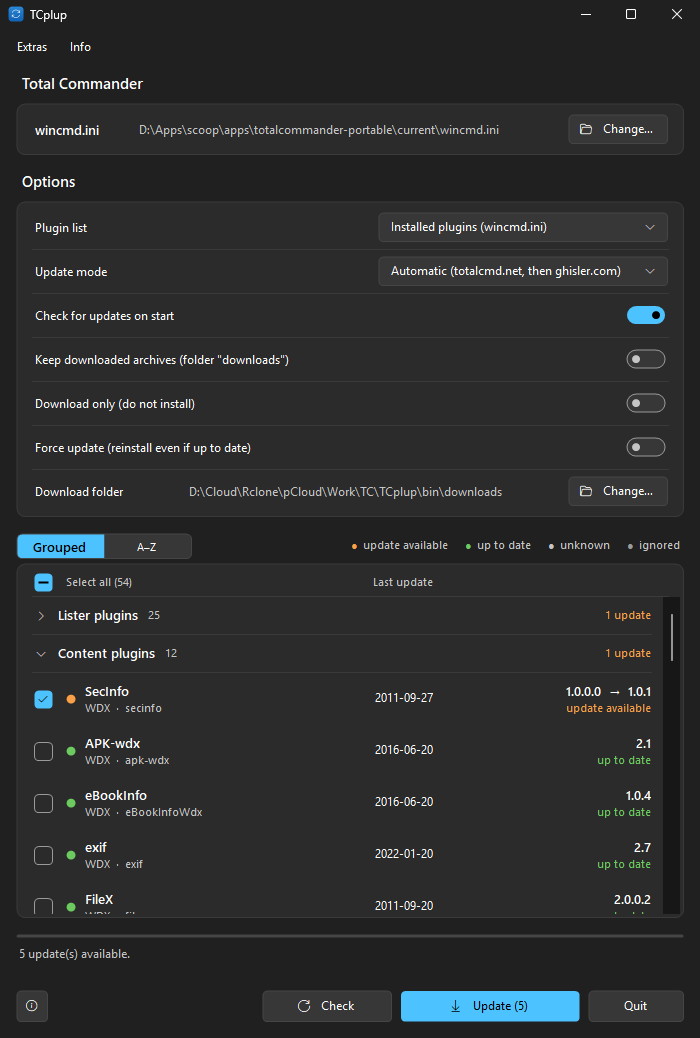
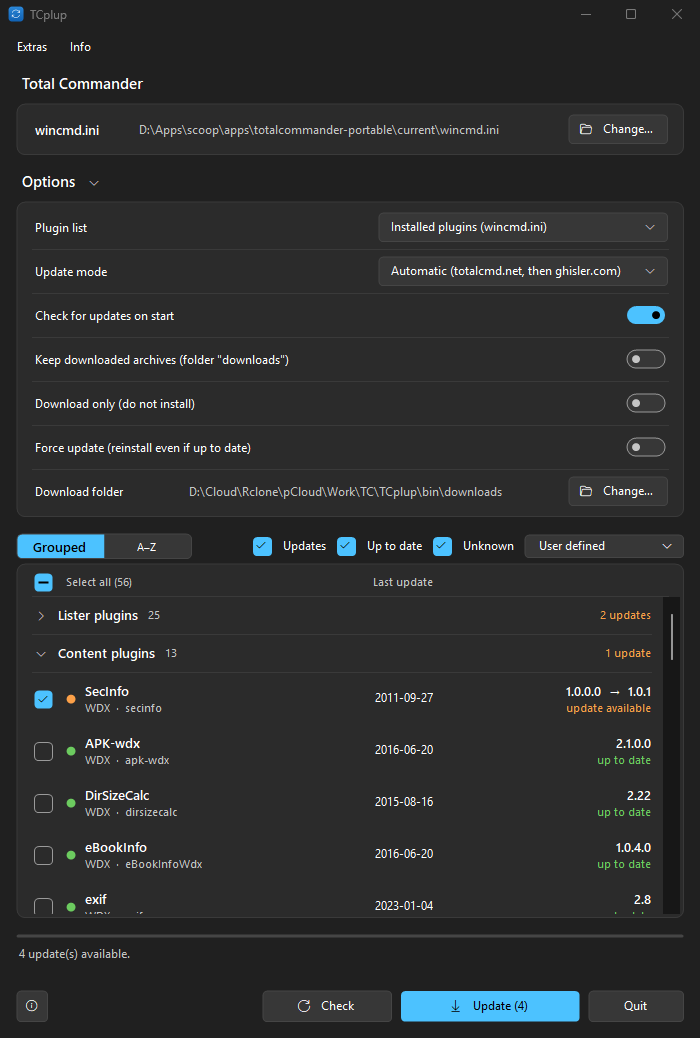
TCplup 1.7.0

diff --git a/README.de.md b/README.de.md
@@ -4,7 +4,7 @@
 
 Ein Updater für Plugins des [Total Commanders](https://www.ghisler.com). Er liest die Liste deiner Plugins, sucht auf [totalcmd.net](https://totalcmd.net), [ghisler.com](https://www.ghisler.com/plugins.htm) oder GitHub nach neueren Versionen und lädt sie herunter und installiert sie – mit einem Klick für alle.
 
-![TCplup mit der Plugin-Liste einer Total-Commander-Installation und fünf verfügbaren Updates](docs/screenshot.png)
+![TCplup mit der Plugin-Liste einer Total-Commander-Installation und vier verfügbaren Updates](docs/screenshot.png)
 
 ## Download
 
@@ -37,8 +37,8 @@ Ein Updater für Plugins des [Total Commanders](https://www.ghisler.com). Er lie
 | Element | Funktion |
 |---|---|
 | Liste **Plugins** | Jede Zeile zeigt in der Spalte **Letztes Update** das Datum der neuesten Plugin-Datei. Der Umschalter über der Liste zeigt die Plugins **Gruppiert** nach Typ – **Lister**-, **Content**-, **Packer**- und **Dateisystem**-Plugins – oder als eine nach **A–Z** sortierte Liste. Plugins mit Update stehen in beiden Ansichten oben. In der gruppierten Ansicht auf eine Gruppenzeile klicken (oder Links/Rechts bzw. Leertaste darauf), um sie zu- oder aufzuklappen; sie zeigt die Anzahl der Plugins und der Updates. **Orange** = Update verfügbar (standardmäßig angehakt), **grün** = aktuell, **grau** = unbekannt oder keine Quelle gefunden. Auf das Kästchen klicken (oder Leertaste), um ein Plugin an- oder abzuwählen. Mehrere Plugins wählst du mit Strg und Umschalt. |
-| Kontrollkästchen über der Liste | Wählt viele Plugins auf einmal an oder ab. Jeder Klick geht einen Schritt weiter: **Aktualisierungen auswählen**, dann **Alles auswählen**, dann **Auswahl aufheben**; das Kästchen zeigt, was gerade angehakt ist (leer, Strich bei einigen, Haken bei allen), und der Text daneben sagt, was der nächste Klick tut. Es wirkt auf die angezeigten Plugins, bei aktivem Legendenfilter also nur auf diese. |
-| **Legende** (über der Liste) | *Update verfügbar*, *aktuell*, *unbekannt* und *ignoriert* sind Filter: Klick zeigt nur diese Plugins, erneuter Klick wieder alle. *ignoriert* ist deine Ignore-Liste. |
+| Kontrollkästchen über der Liste | Wählt viele Plugins auf einmal an oder ab. Jeder Klick geht einen Schritt weiter: **Aktualisierungen auswählen**, dann **Alles auswählen**, dann **Auswahl aufheben**; das Kästchen zeigt, was gerade angehakt ist (leer, Strich bei einigen, Haken bei allen), und der Text daneben sagt, was der nächste Klick tut. Es wirkt auf die angezeigten Plugins, bei abgeschaltetem Filter also nur auf diese. |
+| **Filter** (neben dem Umschalter) | Kontrollkästchen *Updates*, *Aktuell* und *Unbekannt* sowie das Menü **Benutzerdefiniert** mit *Ignoriert*, *Übersprungen* und *Markiert* (deine eigenen Aktionen, siehe unten). Standardmäßig sind alle an; wer ein Häkchen entfernt, blendet diese Plugins aus. In der Liste tragen Plugins mit einer Aktion von dir einen farbigen Hinweis: *ignoriert*, *übersprungen*, *als aktualisiert markiert*. |
 | **Prüfen** | Sucht für alle Plugins erneut nach Updates. |
 | **Aktualisieren (n)** | Installiert die angehakten Plugins (bei eingeschaltetem *Nur herunterladen* heißt der Button **Herunterladen (n)** und speichert nur die Archive). Während des Updates wird *Beenden* zu **Abbrechen**. |
 | **Optionen** (Überschrift) | Ein Klick auf die Überschrift blendet den Optionsblock aus oder ein; das Fenster wird um dessen Höhe kleiner oder größer, und TCplup merkt sich den Zustand. |
@@ -51,9 +51,9 @@ Ein Updater für Plugins des [Total Commanders](https://www.ghisler.com). Er lie
 | **Download-Ordner** | Wohin behaltene und heruntergeladene Archive kommen. Standard: der Ordner `downloads` neben TCplup; mit *Ändern …* wählst du einen anderen. |
 | **ⓘ** (unten links) | Info-Fenster mit Version, Entwickler, Website und Programm-Updates. |
 
-Rechtsklick auf ein Plugin (oder die markierten Plugins): **Aktualisieren** – installiert sofort –, **Update erzwingen** (installiert auch ein aktuelles Plugin neu), **Als aktualisiert markieren** (für ein von Hand aktualisiertes Plugin: die angebotene Version gilt als installiert), *Quellseite öffnen*, *Plugin-Ordner öffnen* (im laufenden Total Commander, sonst im Explorer), *Quelle festlegen …*, *Diese Version überspringen* (nur diese Version wird ausgeblendet) und **Plugin ignorieren (nie aktualisieren)**. Ein ignoriertes Plugin bleibt abgeblendet und mit *ignoriert* in der Liste; es wird nicht geprüft, nicht angehakt und nicht aktualisiert, bis du *Plugin nicht mehr ignorieren* wählst. Das Menü **Extras** enthält *Plugins neu einlesen* (F5), *Total-Commander-Konfiguration wählen …*, *Plugin-Ordner öffnen*, *Alle Updates auswählen* / *Auswahl aufheben* sowie *Alle Gruppen aufklappen* / *Alle Gruppen zuklappen*.
+Rechtsklick auf ein Plugin (oder die markierten Plugins): **Aktualisieren** – installiert sofort –, **Update erzwingen** (installiert auch ein aktuelles Plugin neu), **Als aktualisiert markieren** (für ein von Hand aktualisiertes Plugin: die angebotene Version gilt als installiert; bei einem Plugin, dessen Dateien keine Version tragen, heißt der Eintrag **Aktuelle Version von der Quelle übernehmen**), *Quellseite öffnen*, *Plugin-Ordner öffnen* (im laufenden Total Commander, sonst im Explorer), *Quelle festlegen …*, *Diese Version überspringen* (nur diese Version wird ausgeblendet) und **Plugin ignorieren (nie aktualisieren)**. Ein ignoriertes Plugin bleibt abgeblendet und mit *ignoriert* in der Liste; es wird nicht geprüft, nicht angehakt und nicht aktualisiert, bis du *Plugin nicht mehr ignorieren* wählst. Jede dieser Aktionen lässt sich im selben Menü zurücknehmen (*Überspringen aufheben*, *Markierung „aktualisiert“ aufheben*), und der Filter **Benutzerdefiniert** zeigt, bei welchen Plugins du sie angewendet hast. Das Menü **Extras** enthält *Plugins neu einlesen* (F5), *Total-Commander-Konfiguration wählen …*, *Plugin-Ordner öffnen*, *Alle Updates auswählen* / *Auswahl aufheben* sowie *Alle Gruppen aufklappen* / *Alle Gruppen zuklappen*.
 
-Das Programm erscheint auf Deutsch, wenn Windows auf Deutsch eingestellt ist, sonst auf Englisch. Es folgt dem hellen oder dunklen Windows-Design und der Akzentfarbe.
+TCplup merkt sich Position und Größe seines Fensters. Das Programm erscheint auf Deutsch, wenn Windows auf Deutsch eingestellt ist, sonst auf Englisch. Es folgt dem hellen oder dunklen Windows-Design und der Akzentfarbe.
 
 ## Gut zu wissen
 

diff --git a/README.md b/README.md
@@ -4,7 +4,7 @@
 
 An updater for [Total Commander](https://www.ghisler.com) plugins. It reads the list of your plugins, looks for newer versions on [totalcmd.net](https://totalcmd.net), [ghisler.com](https://www.ghisler.com/plugins.htm) or GitHub, and downloads and installs them – one click for all of them.
 
-![TCplup listing the plugins of a Total Commander installation, with five updates available](docs/screenshot.png)
+![TCplup listing the plugins of a Total Commander installation, with four updates available](docs/screenshot.png)
 
 ## Download
 
@@ -37,8 +37,8 @@ An updater for [Total Commander](https://www.ghisler.com) plugins. It reads the 
 | Element | What it does |
 |---|---|
 | **Plugins** list | Each row shows the date of the plugin's newest file in the column **Last update**. The switch above the list shows the plugins **Grouped** by type – **Lister**, **Content**, **Packer** and **File system** plugins – or as one list sorted **A–Z**. Plugins with an update come first in both views. In the grouped view, click a group header (or press Left/Right or Space on it) to collapse or expand it; the header shows the number of plugins and of updates. **Orange** = update available (ticked by default), **green** = up to date, **grey** = unknown or no source found. Click the box (or press Space) to tick or untick a plugin. Select several plugins with Ctrl and Shift. |
-| Checkbox above the list | Ticks and unticks many plugins at once. Each click moves on: **select the updates**, then **select all**, then **clear the selection**; the box shows what is ticked right now (empty, a dash for some, a check mark for all) and the text next to it says what the next click does. It acts on the plugins that are shown, so with a legend filter active only on those. |
-| **Legend** (above the list) | *update available*, *up to date*, *unknown* and *ignored* are filters: click one to show only those plugins, click again to show all. *ignored* is your ignore list. |
+| Checkbox above the list | Ticks and unticks many plugins at once. Each click moves on: **select the updates**, then **select all**, then **clear the selection**; the box shows what is ticked right now (empty, a dash for some, a check mark for all) and the text next to it says what the next click does. It acts on the plugins that are shown, so with a filter switched off only on those. |
+| **Filters** (next to the switch) | Check boxes *Updates*, *Up to date* and *Unknown* and the menu **User defined** with *Ignored*, *Skipped* and *Marked as updated* (your own actions, see below). All are on by default; untick one to hide those plugins. In the list, plugins with an action of yours carry a colored note: *ignored*, *skipped*, *marked as updated*. |
 | **Check** | Looks for updates again for all plugins. |
 | **Update (n)** | Installs the ticked plugins (with *Download only* switched on, the button reads **Download (n)** and only saves the archives). During the update, *Quit* becomes **Cancel**. |
 | **Options** (heading) | Click the heading to hide or show the option block; the window shrinks or grows by its height, and TCplup remembers the state. |
@@ -51,9 +51,9 @@ An updater for [Total Commander](https://www.ghisler.com) plugins. It reads the 
 | **Download folder** | Where kept and downloaded archives go. Default: the folder `downloads` next to TCplup; choose another one with *Change…*. |
 | **ⓘ** (bottom left) | About window with version, developer, website and program updates. |
 
-Right-click a plugin (or the selected plugins) for **Update** – installs it right away –, **Force update** (reinstalls it also when it is up to date), **Mark as updated** (for a plugin you updated by hand: the offered version counts as installed), *Open source page*, *Open plugin folder* (in the running Total Commander, otherwise in Explorer), *Set source…*, *Skip this version* (only this version is hidden) and **Ignore this plugin (never update)**. An ignored plugin stays in the list, dimmed and marked *ignored*; it is not checked, not ticked and not updated until you choose *Stop ignoring this plugin*. **Extras** has *Read plugins again* (F5), *Choose Total Commander configuration…*, *Open plugin folder*, *Select all updates* / *Clear selection* and *Expand all groups* / *Collapse all groups*.
+Right-click a plugin (or the selected plugins) for **Update** – installs it right away –, **Force update** (reinstalls it also when it is up to date), **Mark as updated** (for a plugin you updated by hand: the offered version counts as installed; for a plugin whose files carry no version it reads **Take current version from the source**), *Open source page*, *Open plugin folder* (in the running Total Commander, otherwise in Explorer), *Set source…*, *Skip this version* (only this version is hidden) and **Ignore this plugin (never update)**. An ignored plugin stays in the list, dimmed and marked *ignored*; it is not checked, not ticked and not updated until you choose *Stop ignoring this plugin*. Each of these actions can be undone in the same menu (*Stop skipping this version*, *Remove "updated" mark*), and the **User defined** filter shows which plugins you applied them to. **Extras** has *Read plugins again* (F5), *Choose Total Commander configuration…*, *Open plugin folder*, *Select all updates* / *Clear selection* and *Expand all groups* / *Collapse all groups*.
 
-The program appears in German when Windows is set to German, otherwise in English. It follows the light or dark Windows theme and the accent color.
+TCplup remembers the position and size of its window. The program appears in German when Windows is set to German, otherwise in English. It follows the light or dark Windows theme and the accent color.
 
 ## Good to know
 
